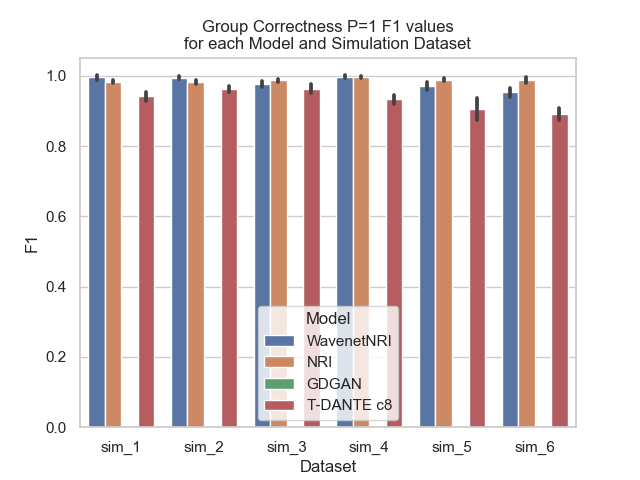
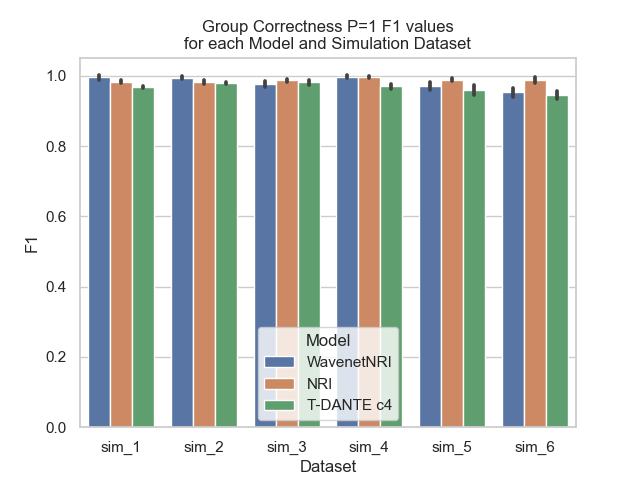
c4 instead of c8 in baseline results

diff --git a/models/plotter.py b/models/plotter.py
@@ -305,12 +305,12 @@ if __name__ == '__main__':
                           pede_nri_results,
                           pede_gdgan_results,
                           pede_wavenet_results, pede_tdante_results])
-    bas_pede = bas_pede[~bas_pede['name'].isin(['DANTE c4', 'T-DANTE c4'])]
+    bas_pede = bas_pede[~bas_pede['name'].isin(['DANTE c8', 'T-DANTE c8'])]
     bas_sim = pd.concat([sim_wavenet_results,
                          sim_nri_results,
                          sim_gdgan_results,
                          sim_tdante_results])
-    bas_sim = bas_sim[~bas_sim['name'].isin(['DANTE c4', 'T-DANTE c4'])]
+    bas_sim = bas_sim[~bas_sim['name'].isin(['DANTE c8', 'T-DANTE c8', 'GDGAN'])]
 
     sns.set(style='whitegrid')
     plot_df(abl_pede, metric='f1_1', ylabel='F1',
